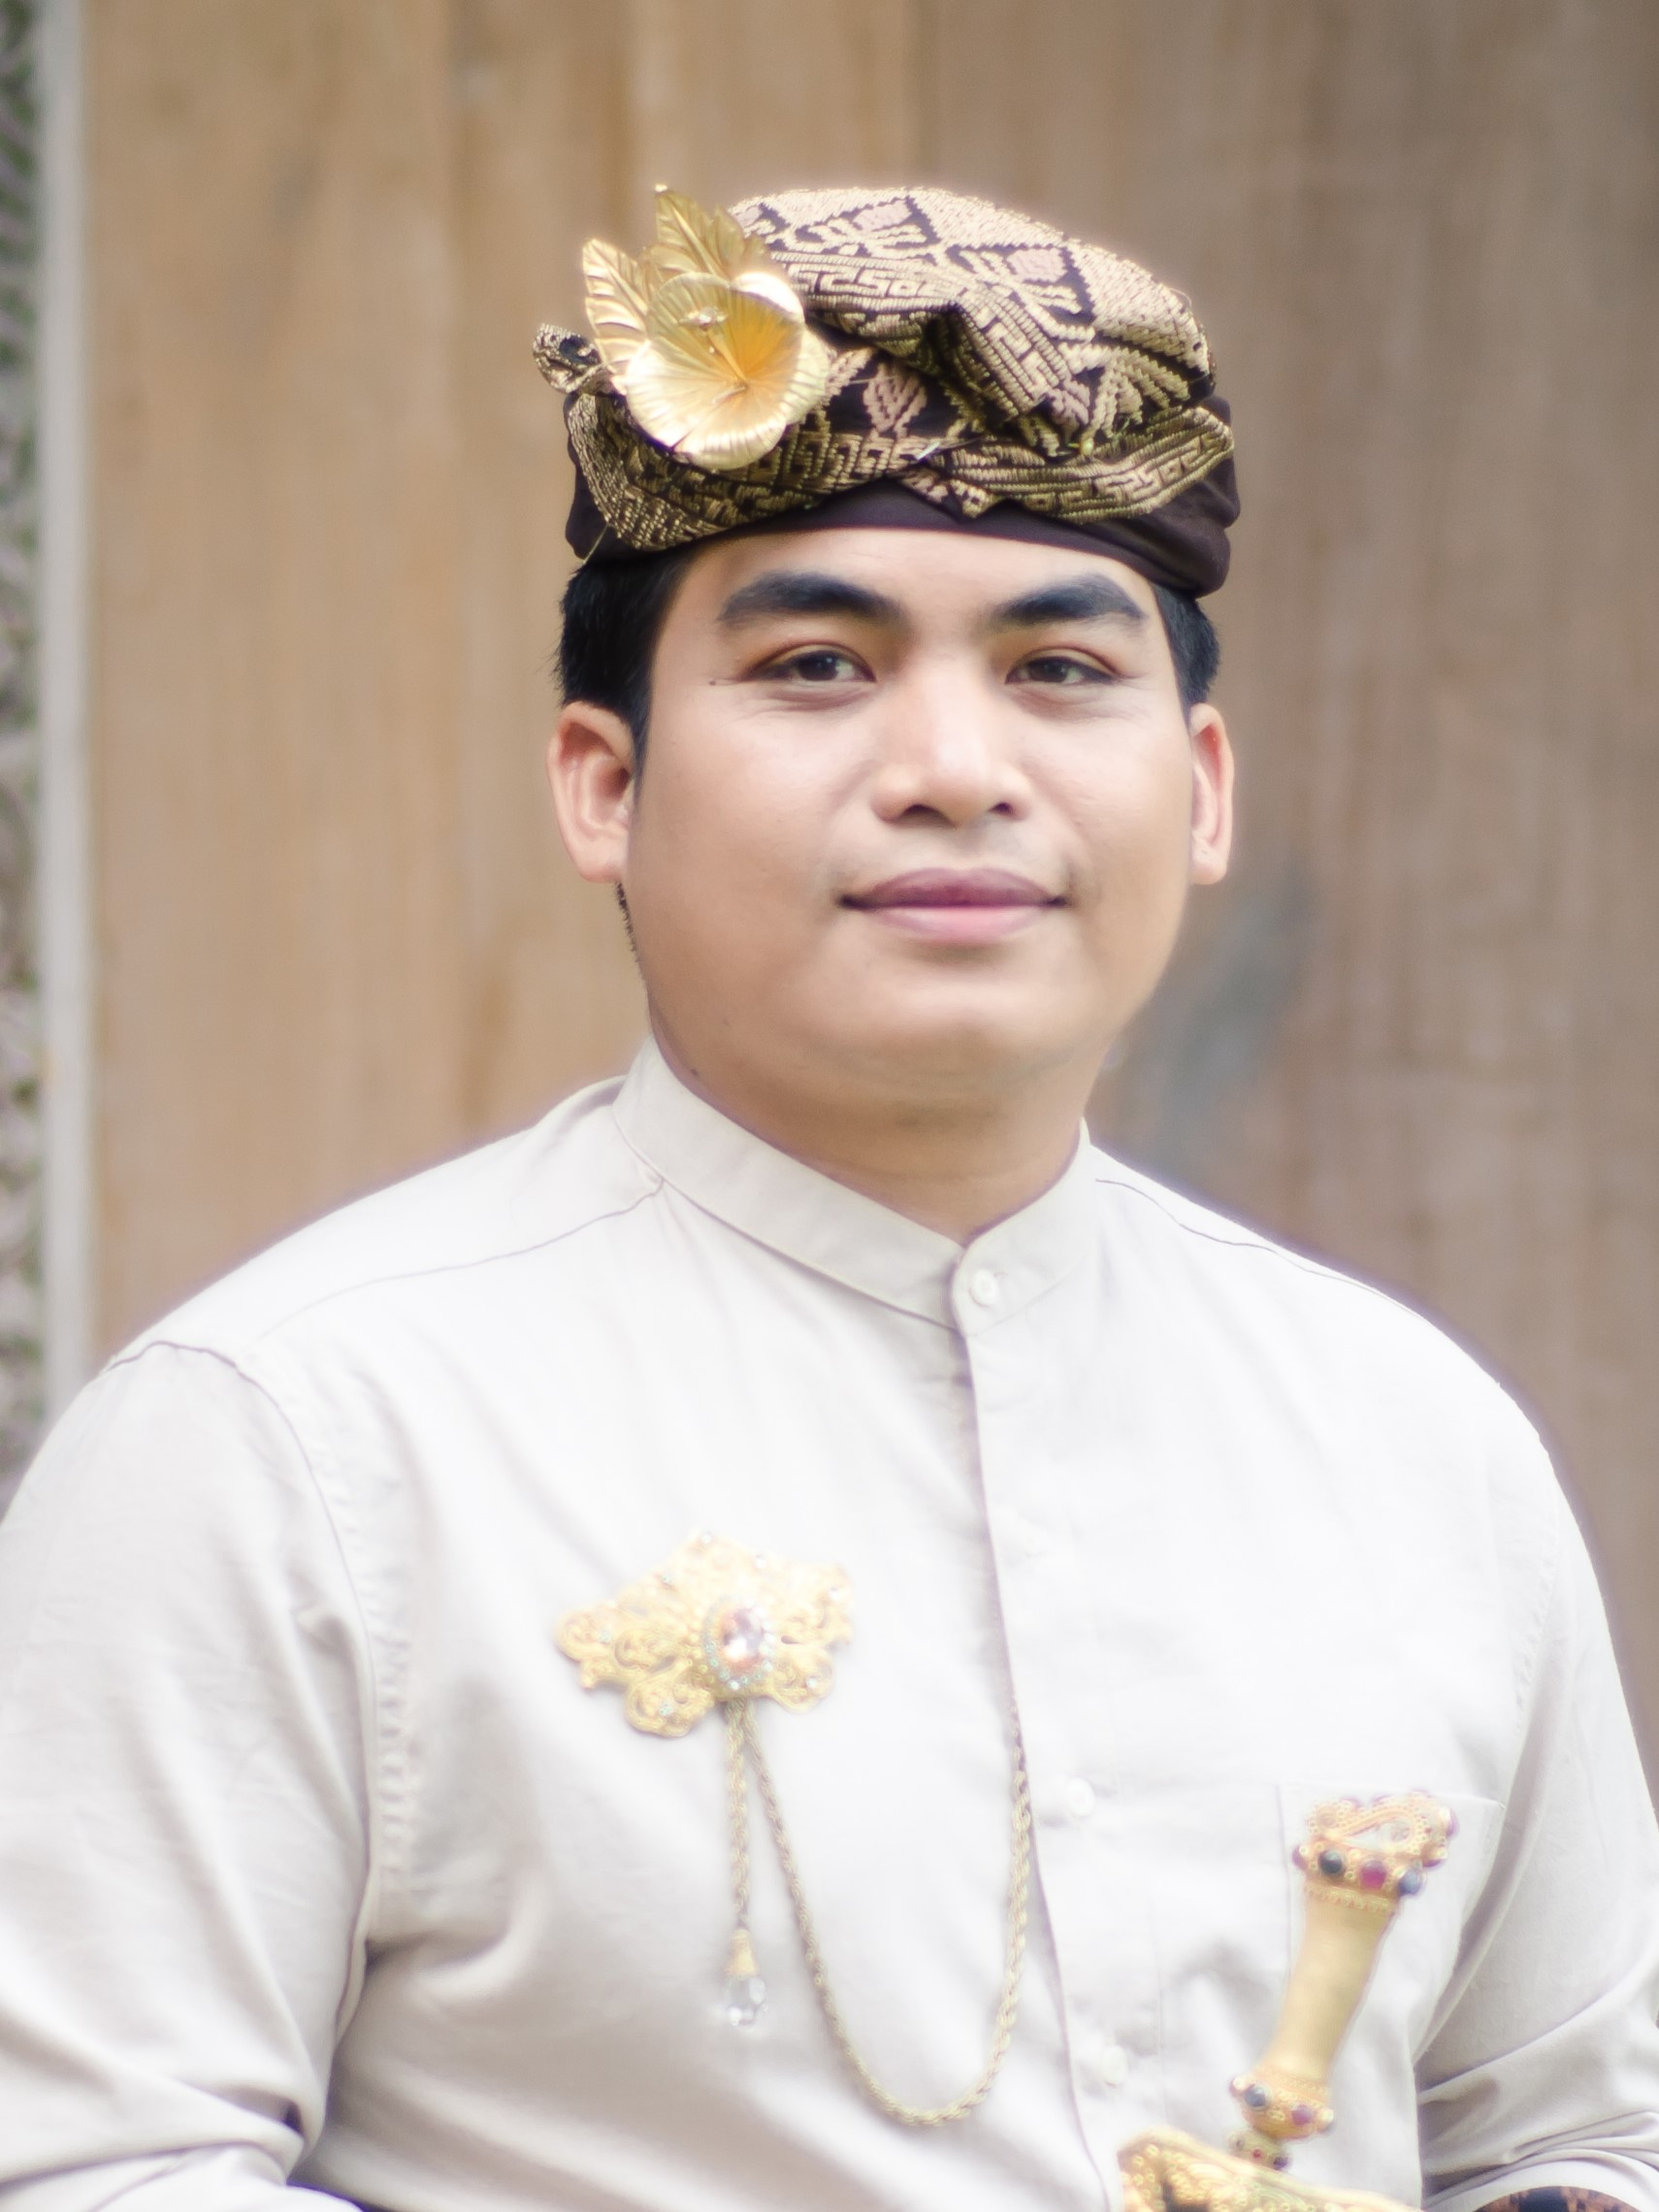
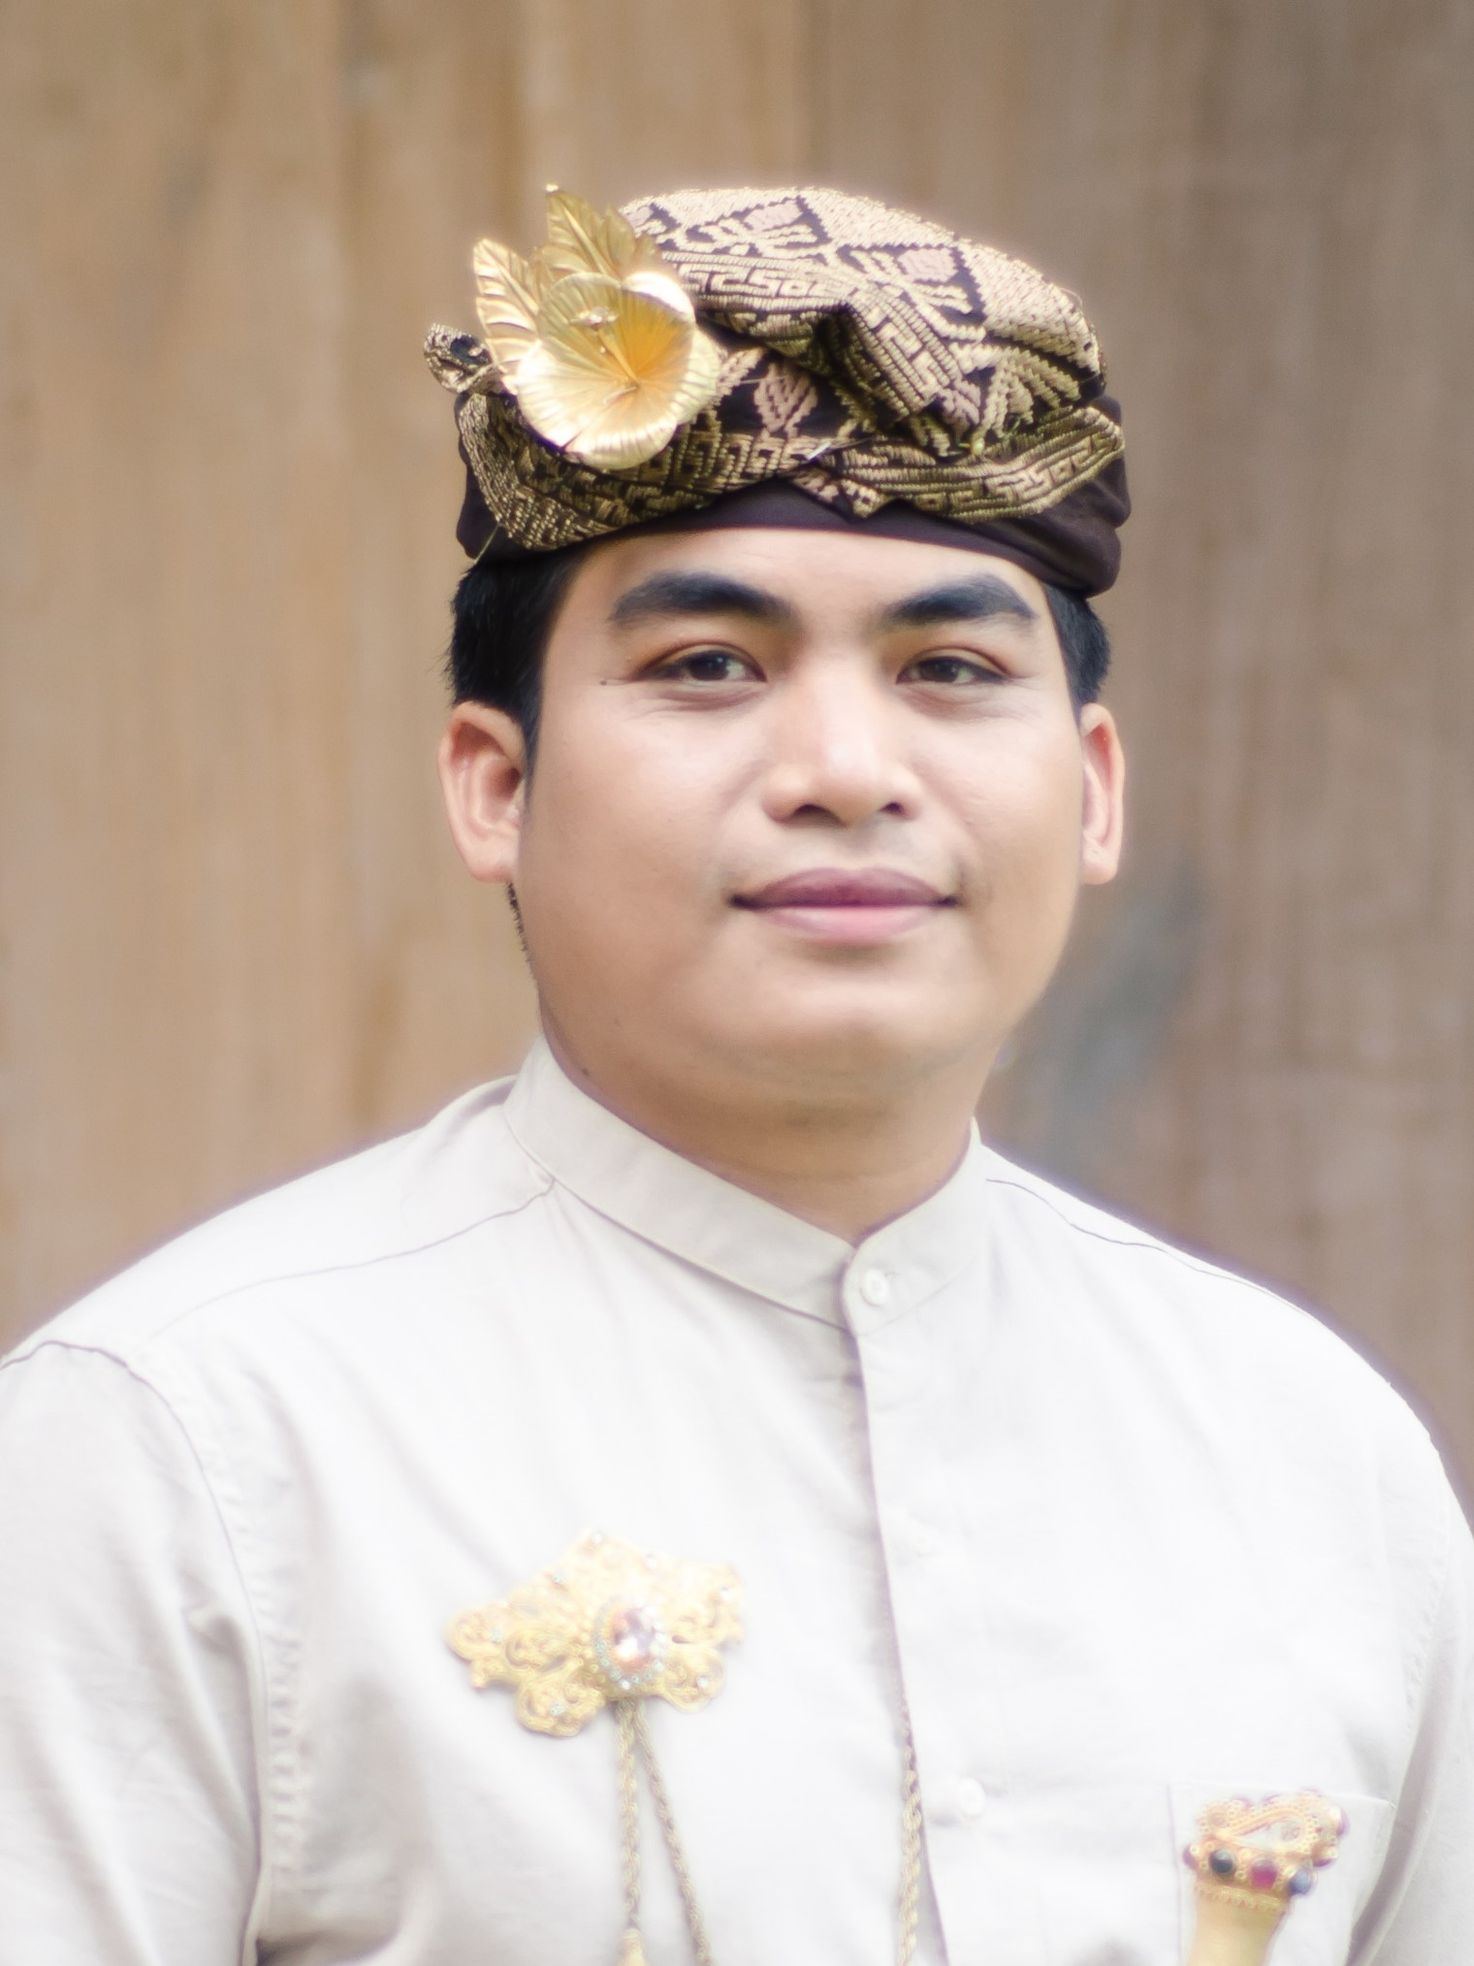
ok

diff --git a/aditya-tri/index.html b/aditya-tri/index.html
@@ -290,7 +290,7 @@
 			<div class="couple-wrap animate-box">
 				<div class="couple-half">
 					<div class="groom">
-						<img src="images/Groom1_edit3.jpg" alt="groom" class="img-responsive">
+						<img src="images/Groom1_edit4.jpg" alt="groom" class="img-responsive">
 					</div>
 					<div class="desc-groom">
 						<h3>Ida Bagus Aditya Prayoga</h3>
@@ -301,7 +301,7 @@
 				<p class="heart text-center"><i class="icon-heart2"></i></p>
 				<div class="couple-half">
 					<div class="bride">
-						<img src="images/Bride1_edit2.jpg" alt="groom" class="img-responsive">
+						<img src="images/Bride1_edit4.jpg" alt="groom" class="img-responsive">
 					</div>
 					<div class="desc-bride">
 						<h3>Ida Ayu Tri Santika</h3>

diff --git a/aditya-tri/css/style.css b/aditya-tri/css/style.css
@@ -1278,8 +1278,8 @@ form label {
   .couple-half .groom img,
   .couple-half .bride img {
     width: 150px;
-    height: 170px;
-    margin: -40px auto;
+    height: 200px;
+    margin: -60px auto;
   }
 }
 
